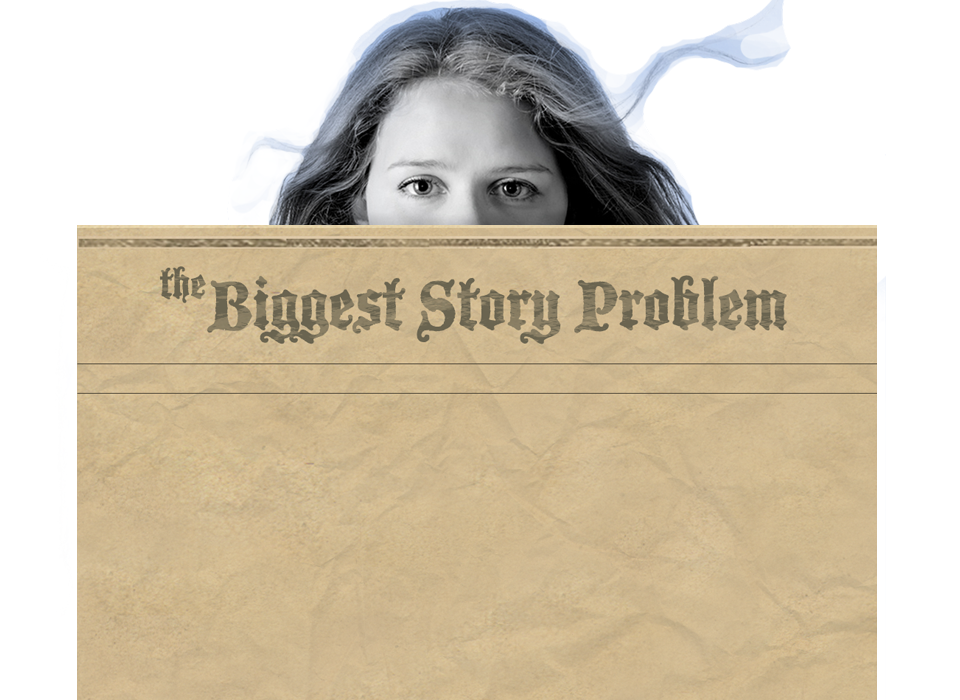
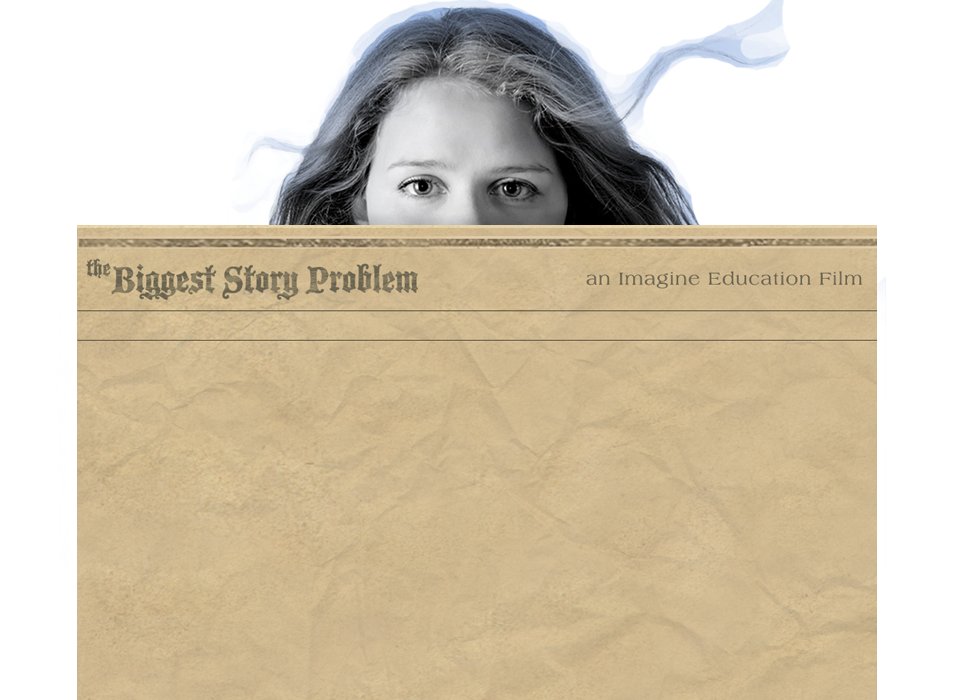
made paper header smaller to try to allow better content space on smaller resolution screens

Changed region(s): [[0.0938, 0.36, 0.9062, 0.51]]

diff --git a/public/stylesheets/application/application.css b/public/stylesheets/application/application.css
@@ -35,13 +35,13 @@ body {overflow: hidden;}
 #header {
 	position: relative;
 	width: 960px;
-	height: 70px;
+	height: 60px;
 	text-indent: -9999em;
 	background: transparent url(../../images/movie_title.png) 0px 0px no-repeat;
 }
 #main_nav {
 	position: absolute;
-	top: 355px;
+	top: 301px;
 	left: 80px;
 	width: 800px;
 }
@@ -72,7 +72,7 @@ body {overflow: hidden;}
 }
 #main_content {
 	position: absolute;
-	top: 394px;
+	top: 341px;
 	left: 77px;
 	width: 800px;
 	background: transparent url(../../images/paper-bg.png) 0px 0px no-repeat;

diff --git a/public/javascripts/core.js b/public/javascripts/core.js
@@ -77,9 +77,9 @@ var Utility = {
   resizeContentContainer: function() {
     var container = $("#main_content");
 
-    container.height($(window).height() - 500);
+    container.height($(window).height() - 440);
     $(window).resize(function() {
-      container.height($(window).height() - 500);
+      container.height($(window).height() - 440);
     });
   },
 
